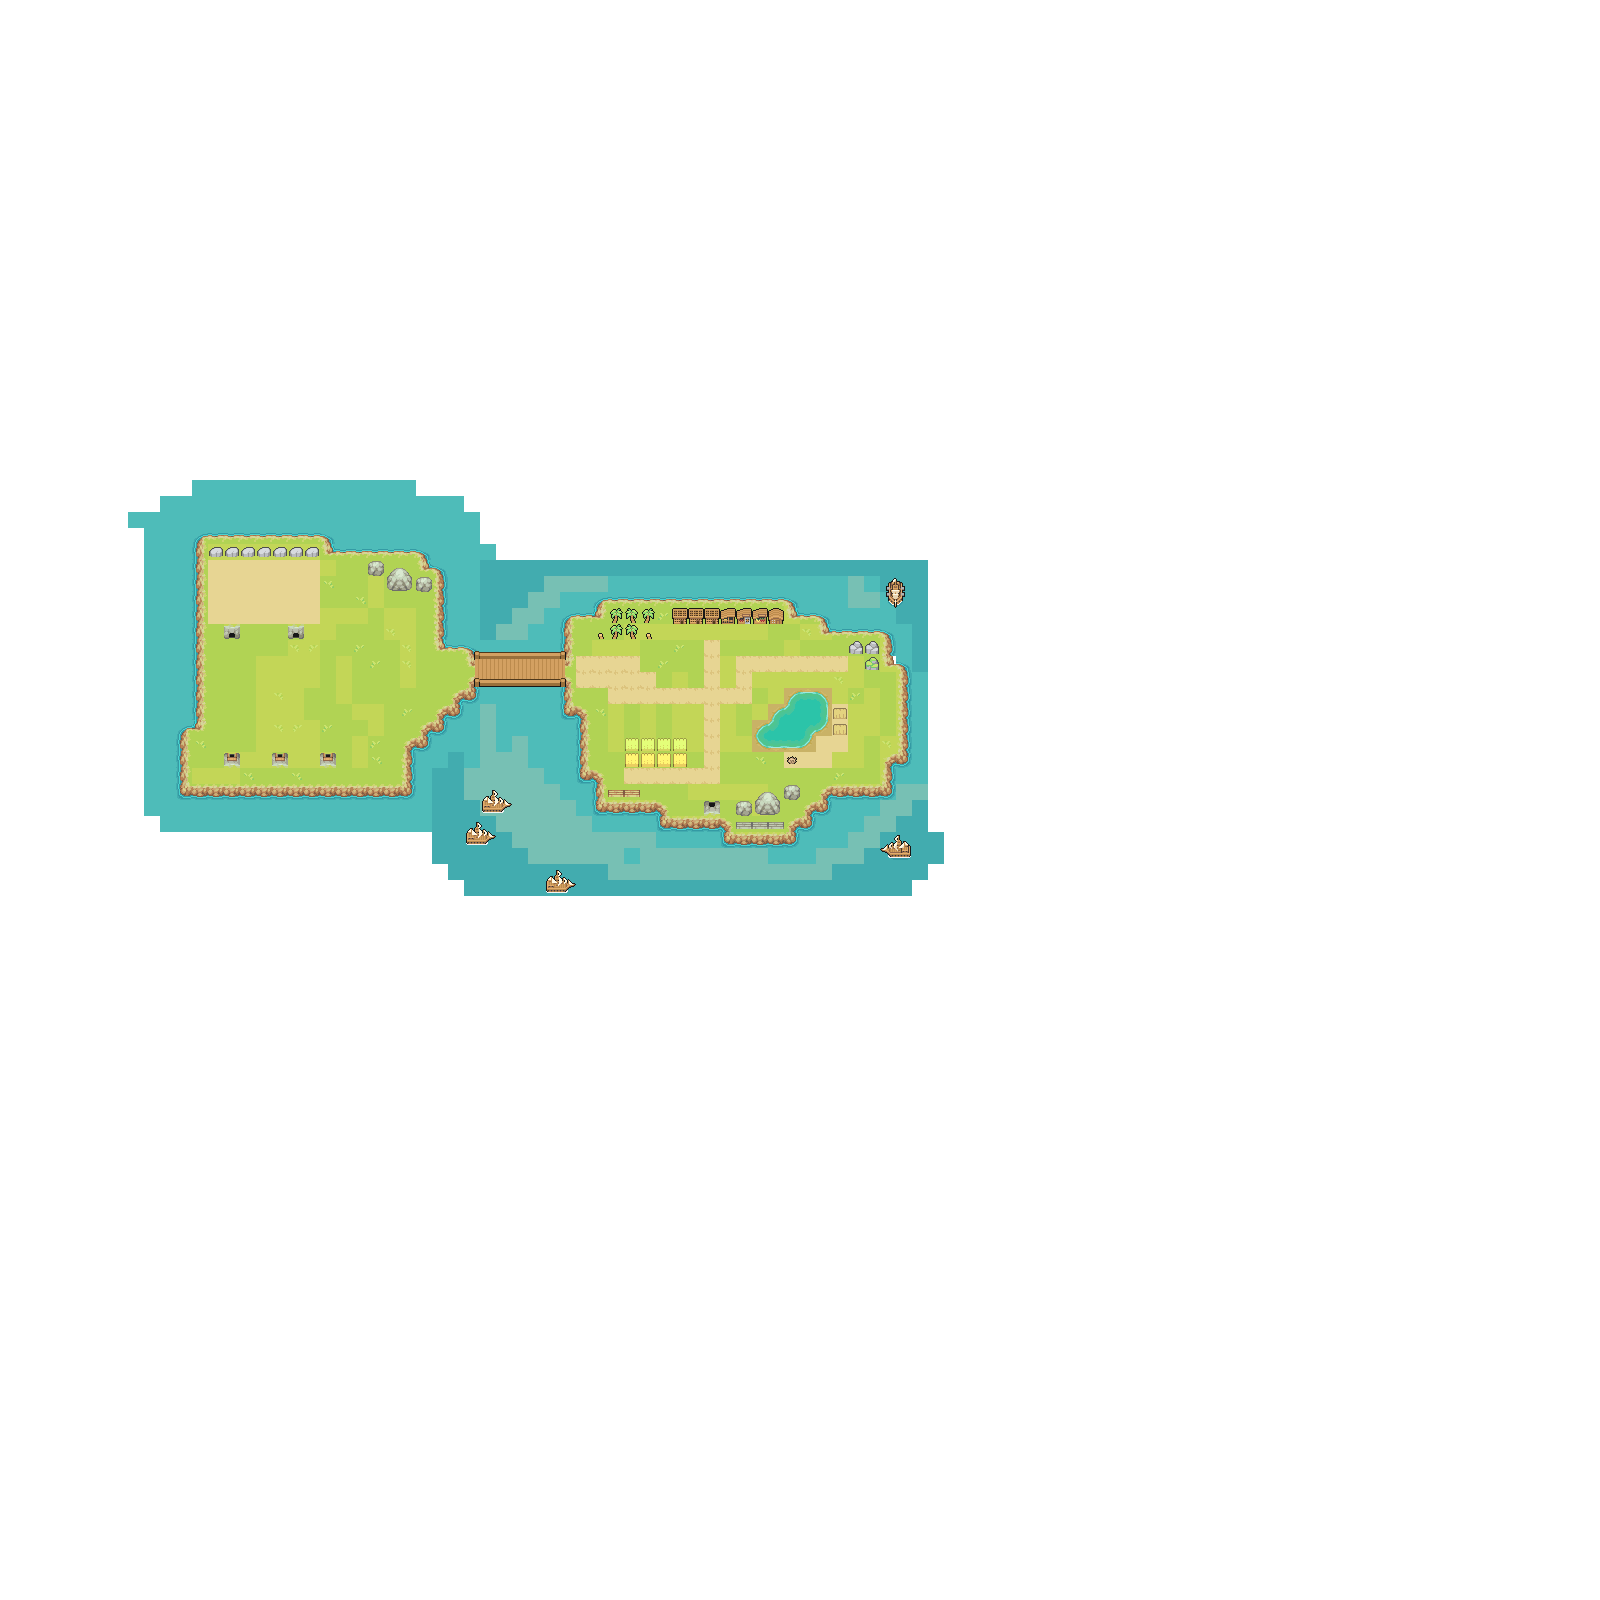
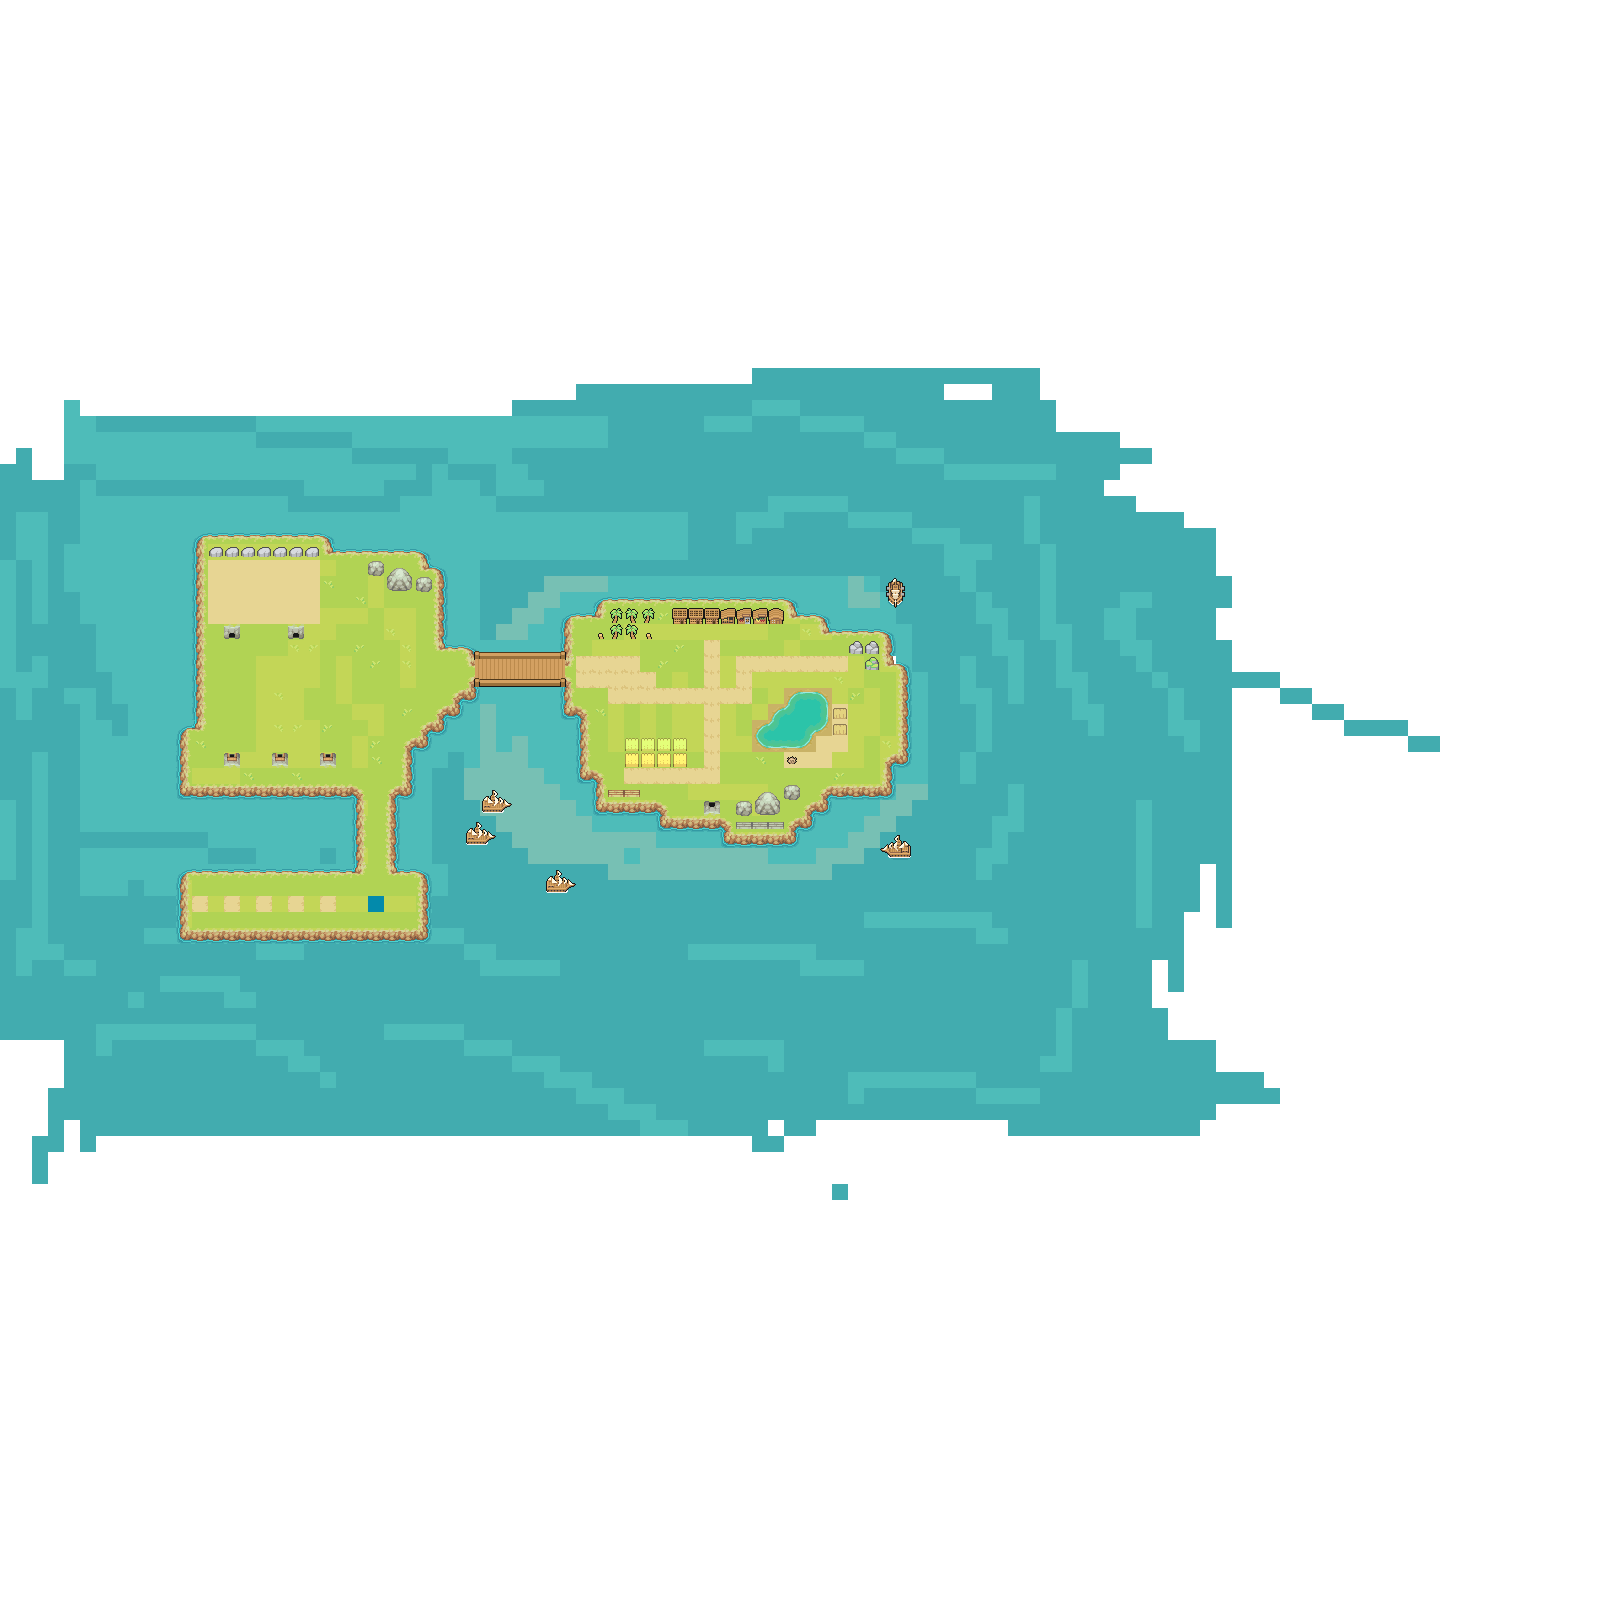
new map css selectors

Changed region(s): [[0.0, 0.2188, 0.8125, 0.75], [0.8125, 0.4375, 0.9062, 0.4688]]

diff --git a/index.html b/index.html
@@ -7,6 +7,7 @@
     <link rel="stylesheet" href="styles/formOne.css">
     <link rel="stylesheet" href="styles/formTwo.css">
     <link rel="stylesheet" href="styles/keyFrames.css">
+    <link rel="stylesheet" href="styles/cssSelektor.css">
     <meta name="viewport" content="width=device-width, initial-scale=1.0" />
     <title>Sprite Sheet Demo</title>
   </head>
@@ -53,31 +54,39 @@
       </form>
     </div>
 
-    <div id="CCSSelector">
+    <div id="CCSSelector" class="container">
       <div class="content">
-        <h1>Advanced CSS Selectors Example</h1>
-        <ul class="main-list">
-          <li class="item">Item 1
-            <ul class="sub-list">
-              <li>Sub-item 1</li>
-              <li>Sub-item 2</li>
-            </ul>
-          </li>
-          <li class="item">Item 2
-            <ul class="sub-list">
-              <li>Sub-item 1</li>
-              <li>Sub-item 2</li>
-            </ul>
-          </li>
-          <li class="item">Item 3</li>
-        </ul>
-        <p>In this paragraph, <span class="highlight">some text is highlighted</span>, and here is a <a href="#">link</a>.</p>
-        <div class="posts">
-          <article class="post">Post 1</article>
-          <article class="post important">Important Post</article>
-          <article class="post">Post 3</article>
-        </div>
+      <h1>Advanced CSS Selectors Example</h1>
+      <ul class="main-list">
+        <li class="item">Item 1
+          <ul class="sub-list">
+            <li class="sub-item special">Sub-item 1</li>
+            <li class="sub-item">Sub-item 2</li>
+            <li class="sub-item">Sub-item 3</li>
+          </ul>
+        </li>
+        <li class="item">Item 2
+          <ul class="sub-list">
+            <li class="sub-item">Sub-item 1</li>
+            <li class="sub-item">Sub-item 2</li>
+            <li class="sub-item">Sub-item 3</li>
+          </ul>
+        </li>
+        <li class="item">Item 3
+          <ul class="sub-list">
+            <li class="sub-item">Sub-item 1</li>
+            <li class="sub-item important">Sub-item 2</li>
+            <li class="sub-item">Sub-item 3</li>
+          </ul>
+        </li>
+      </ul>
+      <p>In this paragraph, <span class="highlight">some text is highlighted</span>, and here is a <a href="#" class="external">link</a>.</p>
+      <div class="posts">
+        <article class="post">Post 1</article>
+        <article class="post important">Important Post</article>
+        <article class="post">Post 3</article>
       </div>
+    </div>
     </div>
 
 

diff --git a/src/objects/hero/Hero.js b/src/objects/hero/Hero.js
@@ -68,6 +68,7 @@ export class Hero extends GameObject {
         this.isFormOneVisible = false;
         this.isFormTwoVisible = false;
         this.isFormThreeVisible = false;
+        this.isCSSArticeleVisivle = false;
 
         events.on("HERO_PICKS_UP_ITEM", this, data => {
             this.onPickUpItem(data);
@@ -92,6 +93,7 @@ export class Hero extends GameObject {
             events.emit("REMOVE_POSTER1");
         }
 
+        // FORMS
         if(!this.isFormOneVisible) {
             if (this.position.x === gridCells(14) && this.position.y === gridCells(47)) {
                 console.log("Show form 1");
@@ -134,6 +136,23 @@ export class Hero extends GameObject {
             }
         }
 
+
+        // CSS SELECTORS
+        if(!this.isCSSArticeleVisivle) {
+            if (this.position.x == gridCells(23) && this.position.y === gridCells(56)) {
+                console.log("Show form 1");
+                events.emit("SHOW_CSS_ARTICLE");
+                this.isCSSArticeleVisivle = true;
+            }
+        }else {
+            if (this.position.x !== gridCells(23) || this.position.y !== gridCells(56)) {
+                console.log("hide form 1");
+                events.emit("HIDE_CSS_ARTICLE");
+                this.isCSSArticeleVisivle = false;
+            }
+        }
+
+
         const distance = moveTowards(this, this.destinationPosition, 2.5) ;
         const hasArrived = distance <= 0;
         // Attempt to move again if the hero is at his position
@@ -141,7 +160,8 @@ export class Hero extends GameObject {
 
 
             this.tryMove(root);
-            printGrid(this.position.x, this.position.y);
+            //printGrid(this.position.x, this.position.y);
+            console.log(this.position.x + " " + this.position.y );
         }
 
         this.tryEmitPosition()

diff --git a/src/levels/level1.js b/src/levels/level1.js
@@ -1,13 +1,49 @@
 export const walls = new Set();
 
-walls.add(`64,48`); // tree
+const addWall = (x, y) => walls.add(`${x},${y}`);
 
-walls.add(`64,64`); // squares
-walls.add(`64,80`);
-walls.add(`80,64`);
-walls.add(`80,80`);
+const addHorizontalWall = (startX, endX, y, step = 16) => {
+    if (startX < endX) {
+        for (let x = startX; x <= endX; x += step) {
+            addWall(x, y);
+        }
+    } else {
+        for (let x = startX; x >= endX; x -= step) {
+            addWall(x, y);
+        }
+    }
+};
 
-walls.add(`112,80`); // water
-walls.add(`128,80`);
-walls.add(`144,80`);
-walls.add(`160,80`);
+const addVerticalWall = (x, startY, endY, step = 16) => {
+    if (startY < endY) {
+        for (let y = startY; y <= endY; y += step) {
+            addWall(x, y);
+        }
+    } else {
+        for (let y = startY; y >= endY; y -= step) {
+            addWall(x, y);
+        }
+    }
+};
+
+// Načtení souřadnic ze souboru
+fetch('../../public/walls/mapV2.json')
+    .then(response => response.json())
+    .then(data => {
+        data.walls.forEach(wall => {
+            if (Array.isArray(wall)) {
+                const [type, start, end, constant] = wall;
+                if (type === 'horizontal') {
+                    addHorizontalWall(start, end, constant);
+                } else if (type === 'vertical') {
+                    addVerticalWall(start, end, constant);
+                }
+            } else {
+                const [x, y] = wall.split(',').map(Number);
+                addWall(x, y);
+            }
+        });
+    })
+    .catch(error => {
+        console.error('Error loading walls:', error);
+    });

diff --git a/main.js b/main.js
@@ -43,6 +43,9 @@ function startGame() {
     const formOne = document.getElementById('formOne');
     const formContainerTwo = document.getElementById('formContainerTwo');
 
+// CSS article
+    const cssAricle = document.getElementById('CCSSelector');
+
 // Establish the root scene
     const mainScene = new GameObject({
         position: new Vector2(0, 0)
@@ -59,7 +62,7 @@ function startGame() {
 
     const groundSprite = new Sprite({
         resource: resources.images.ground,
-        frameSize: new Vector2(1000, 1000)
+        frameSize: new Vector2(2000, 2000)
     })
 
     mainScene.addChild(groundSprite);
@@ -267,6 +270,23 @@ function startGame() {
         formContainerTwo.classList.remove('D3Rotate');
         formContainerTwo.classList.add('fadeOut');
         formContainerTwo.style.display = 'none';
+        //formOne.reset();
+
+    });
+
+    // Zobrazení drop zone při události SHOW_FORM
+    events.on("SHOW_CSS_ARTICLE", null, () => {
+        cssAricle.classList.remove('fadeOut');
+        cssAricle.classList.add('fadeIn');
+        cssAricle.style.display = 'block';
+
+    });
+
+    // Zobrazení drop zone při události SHOW_FORM
+    events.on("HIDE_CSS_ARTICLE", null, () => {
+        cssAricle.classList.remove('fadeIn');
+        cssAricle.classList.add('fadeOut');
+        cssAricle.style.display = 'none';
         //formOne.reset();
 
     });

diff --git a/src/Input.js b/src/Input.js
@@ -3,6 +3,7 @@ export const LEFT = "LEFT"
 export const RIGHT = "RIGHT"
 export const UP = "UP"
 export const DOWN = "DOWN"
+export const ENTER = "ENTER"
 
 export class Input {
     constructor() {
@@ -23,6 +24,9 @@ export class Input {
             }
             if (e.code === "ArrowRight" || e.code === "KeyD") {
                 this.onArrowPressed(RIGHT);
+            }
+            if (e.code === "Enter") {
+                this.onArrowPressed(ENTER);
             }
         })
 

diff --git a/style.css b/style.css
@@ -38,3 +38,17 @@ canvas{
   background-color: #f9f9f9;
 }
 
+.container{
+  position: absolute;
+  top: 50%;
+  left: 50%;
+  transform: translate(-50%, -50%);
+  background: rgba(255, 255, 255, 0.9);
+  padding: 20px;
+  border-radius: 15px;
+  box-shadow: 0 0 15px rgba(0, 0, 0, 0.1);
+  z-index: 10;
+  width: 300px;
+  text-align: center;
+}
+

diff --git a/styles/keyFrames.css b/styles/keyFrames.css
@@ -2,7 +2,7 @@
 
 .D3Rotate {
       transform-style: preserve-3d; /* Umožňuje 3D transformace */
-      animation: rotate 10s infinite linear;
+      animation: rotate 5s infinite linear;
   }
 
 

diff --git a/styles/cssSelektor.css b/styles/cssSelektor.css
@@ -1,0 +1,6 @@
+#CCSSelector{
+    left: 30%;
+    display: none;
+    background-color: rgba(255, 255, 255, 0.9);
+}
+

diff --git a/styles/formOne.css b/styles/formOne.css
@@ -11,7 +11,6 @@
     z-index: 10;
     width: 300px;
     text-align: center;
-
 }
 
 @keyframes fadeIn {

diff --git a/styles/formTwo.css b/styles/formTwo.css
@@ -11,7 +11,6 @@
     z-index: 10;
     width: 300px;
     text-align: center;
-
 }
 
 
